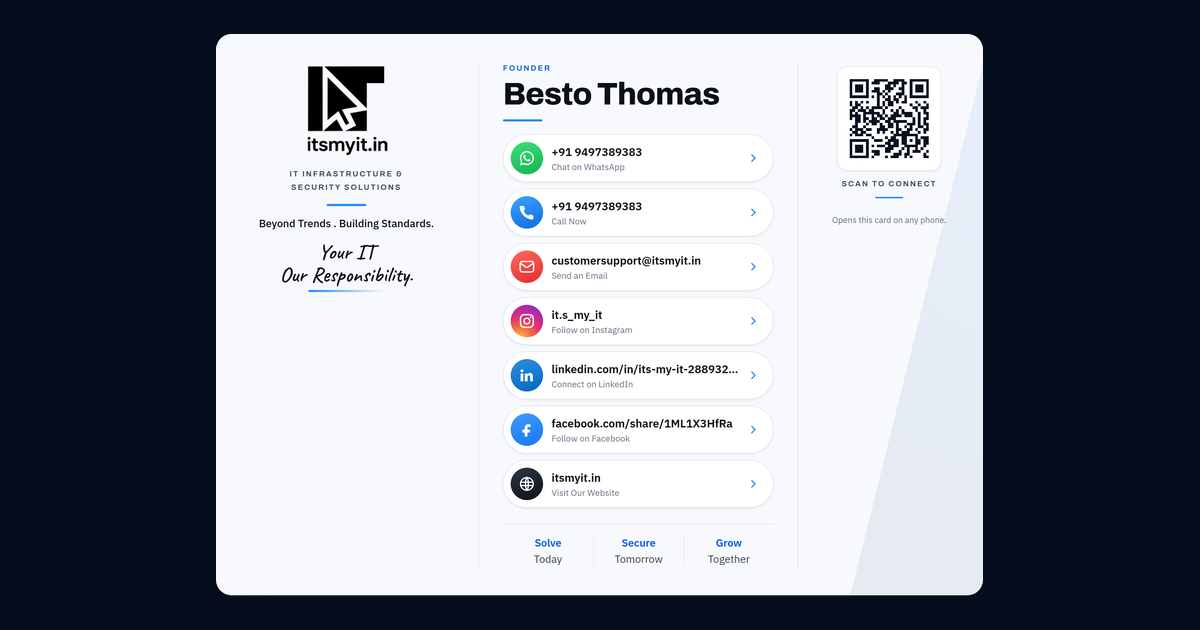
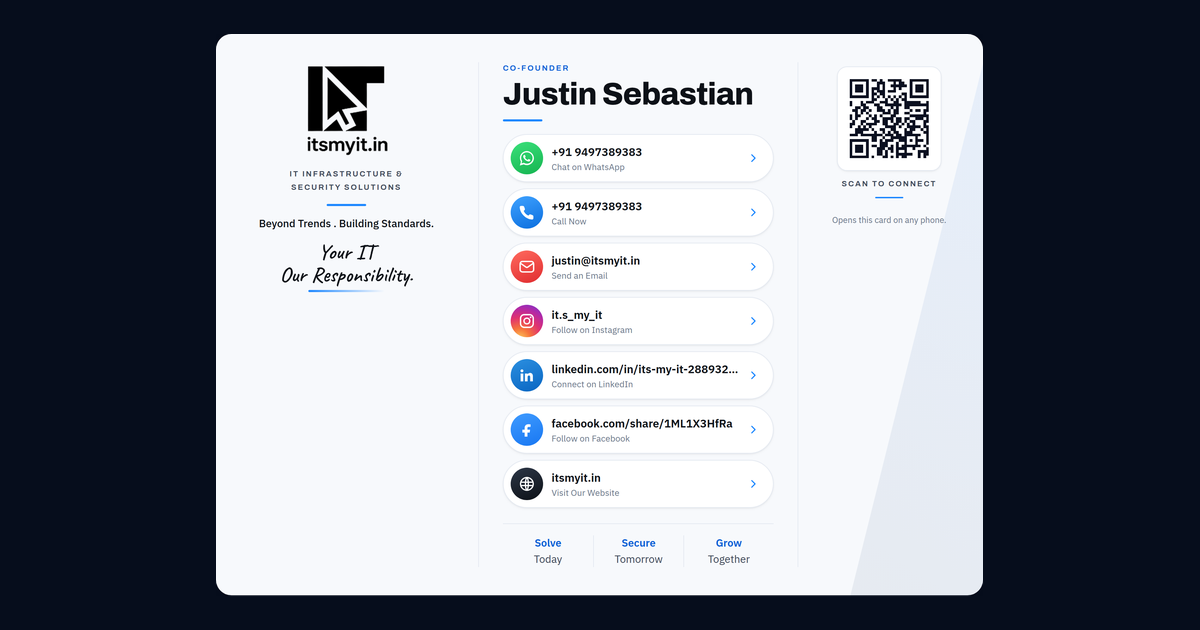
Add files via upload

Changed region(s): [[0.4008, 0.0905, 0.6475, 0.181], [0.7092, 0.1206, 0.7708, 0.2714], [0.4625, 0.3921, 0.5858, 0.4222]]

diff --git a/index.html b/index.html
@@ -3,15 +3,15 @@
 <head>
 <meta charset="utf-8">
 <meta name="viewport" content="width=device-width, initial-scale=1, viewport-fit=cover">
-<meta name="description" content="Besto Thomas, Founder of itsmyit.in — IT infrastructure &amp; security solutions. Call, WhatsApp, email or save the contact in one tap.">
+<meta name="description" content="Justin Sebastian, Co-Founder of itsmyit.in — IT infrastructure &amp; security solutions. Call, WhatsApp, email or save the contact in one tap.">
 <meta name="theme-color" content="#060d1c">
-<link rel="icon" type="image/png" href="favicon.png">
-<link rel="apple-touch-icon" href="favicon.png">
+<link rel="icon" type="image/png" href="/favicon.png">
+<link rel="apple-touch-icon" href="/favicon.png">
 <meta property="og:type" content="profile">
-<meta property="og:title" content="Besto Thomas — Founder, itsmyit.in">
+<meta property="og:title" content="Justin Sebastian — Co-Founder, itsmyit.in">
 <meta property="og:description" content="IT Infrastructure &amp; Security Solutions. Tap to call, WhatsApp, email or save the contact.">
-<meta property="og:image" content="https://itsmyit08-ui.github.io/og.png">
-<meta property="og:url" content="https://itsmyit08-ui.github.io">
+<meta property="og:image" content="https://itsmyit08-ui.github.io/justin/og.png">
+<meta property="og:url" content="https://itsmyit08-ui.github.io/justin">
 <meta name="twitter:card" content="summary_large_image">
 <style>
   :root {
@@ -23,7 +23,7 @@
   img { max-width: 100%; }
   [hidden] { display: none !important; }
 </style>
-<title>Besto Thomas · itsmyit.in</title>
+<title>Justin Sebastian · itsmyit.in</title>
 <link rel="preconnect" href="https://fonts.googleapis.com">
 <link rel="preconnect" href="https://fonts.gstatic.com" crossorigin>
 <link rel="stylesheet" href="https://fonts.googleapis.com/css2?family=Archivo:wght@500;600;700;800&family=IBM+Plex+Sans:wght@400;500;600&family=Caveat:wght@600&display=swap">
@@ -539,8 +539,8 @@
 
       <div class="contact">
         <div class="lead">
-          <div class="label">Founder</div>
-          <h1>Besto Thomas</h1>
+          <div class="label">Co-Founder</div>
+          <h1>Justin Sebastian</h1>
           <div class="rule"></div>
         </div>
 
@@ -564,10 +564,10 @@
             <svg class="chev" viewBox="0 0 24 24" aria-hidden="true"><path d="m9 5 7 7-7 7" fill="none" stroke="currentColor" stroke-width="2.4" stroke-linecap="round" stroke-linejoin="round"/></svg>
           </a>
 
-          <a class="row" href="mailto:customersupport@itsmyit.in" target="_blank" rel="noopener" data-copy="customersupport@itsmyit.in" data-copy-label="Address copied — opening your mail app">
+          <a class="row" href="mailto:justin@itsmyit.in" target="_blank" rel="noopener" data-copy="justin@itsmyit.in" data-copy-label="Address copied — opening your mail app">
             <span class="badge b-mail"><svg viewBox="0 0 24 24" aria-hidden="true" ><rect x="2.4" y="4.6" width="19.2" height="14.8" rx="3.2" fill="none" stroke="currentColor" stroke-width="1.9"/><path d="m3.6 7.6 7.3 5.1a2 2 0 0 0 2.2 0l7.3-5.1" fill="none" stroke="currentColor" stroke-width="1.9" stroke-linecap="round"/></svg></span>
             <span class="row-text">
-              <span class="row-main">customersupport@itsmyit.in</span>
+              <span class="row-main">justin@itsmyit.in</span>
               <span class="row-sub">Send an Email</span>
             </span>
             <svg class="chev" viewBox="0 0 24 24" aria-hidden="true"><path d="m9 5 7 7-7 7" fill="none" stroke="currentColor" stroke-width="2.4" stroke-linecap="round" stroke-linejoin="round"/></svg>
@@ -619,7 +619,7 @@
       </div>
 
       <div class="scan">
-        <div class="qr-frame"><svg class="" viewBox="0 0 33 33" xmlns="http://www.w3.org/2000/svg" shape-rendering="crispEdges" role="img" aria-label="QR code"><rect width="33" height="33" fill="#ffffff"/><path d="M2 2h7v1h-7zM11 2h5v1h-5zM18 2h4v1h-4zM24 2h7v1h-7zM2 3h1v1h-1zM8 3h1v1h-1zM10 3h3v1h-3zM16 3h4v1h-4zM21 3h2v1h-2zM24 3h1v1h-1zM30 3h1v1h-1zM2 4h1v1h-1zM4 4h3v1h-3zM8 4h1v1h-1zM15 4h2v1h-2zM18 4h1v1h-1zM21 4h1v1h-1zM24 4h1v1h-1zM26 4h3v1h-3zM30 4h1v1h-1zM2 5h1v1h-1zM4 5h3v1h-3zM8 5h1v1h-1zM11 5h2v1h-2zM15 5h3v1h-3zM20 5h2v1h-2zM24 5h1v1h-1zM26 5h3v1h-3zM30 5h1v1h-1zM2 6h1v1h-1zM4 6h3v1h-3zM8 6h1v1h-1zM10 6h3v1h-3zM14 6h1v1h-1zM16 6h1v1h-1zM21 6h1v1h-1zM24 6h1v1h-1zM26 6h3v1h-3zM30 6h1v1h-1zM2 7h1v1h-1zM8 7h1v1h-1zM12 7h2v1h-2zM15 7h1v1h-1zM19 7h3v1h-3zM24 7h1v1h-1zM30 7h1v1h-1zM2 8h7v1h-7zM10 8h1v1h-1zM12 8h1v1h-1zM14 8h1v1h-1zM16 8h1v1h-1zM18 8h1v1h-1zM20 8h1v1h-1zM22 8h1v1h-1zM24 8h7v1h-7zM12 9h1v1h-1zM15 9h2v1h-2zM18 9h2v1h-2zM22 9h1v1h-1zM2 10h1v1h-1zM4 10h1v1h-1zM6 10h1v1h-1zM8 10h1v1h-1zM12 10h1v1h-1zM14 10h1v1h-1zM16 10h2v1h-2zM19 10h1v1h-1zM21 10h2v1h-2zM26 10h1v1h-1zM29 10h1v1h-1zM2 11h1v1h-1zM4 11h2v1h-2zM12 11h1v1h-1zM14 11h1v1h-1zM16 11h2v1h-2zM24 11h1v1h-1zM27 11h1v1h-1zM30 11h1v1h-1zM3 12h2v1h-2zM6 12h1v1h-1zM8 12h1v1h-1zM10 12h4v1h-4zM15 12h1v1h-1zM20 12h1v1h-1zM25 12h2v1h-2zM28 12h3v1h-3zM2 13h2v1h-2zM5 13h3v1h-3zM9 13h2v1h-2zM14 13h1v1h-1zM17 13h1v1h-1zM19 13h1v1h-1zM21 13h1v1h-1zM26 13h1v1h-1zM29 13h1v1h-1zM2 14h1v1h-1zM4 14h1v1h-1zM7 14h6v1h-6zM14 14h1v1h-1zM18 14h2v1h-2zM21 14h4v1h-4zM27 14h1v1h-1zM29 14h2v1h-2zM2 15h4v1h-4zM7 15h1v1h-1zM10 15h1v1h-1zM12 15h2v1h-2zM15 15h1v1h-1zM17 15h4v1h-4zM22 15h3v1h-3zM27 15h1v1h-1zM30 15h1v1h-1zM2 16h1v1h-1zM4 16h2v1h-2zM7 16h2v1h-2zM10 16h2v1h-2zM13 16h2v1h-2zM16 16h3v1h-3zM25 16h1v1h-1zM27 16h1v1h-1zM29 16h2v1h-2zM4 17h2v1h-2zM7 17h1v1h-1zM9 17h4v1h-4zM15 17h2v1h-2zM18 17h5v1h-5zM25 17h1v1h-1zM27 17h1v1h-1zM29 17h1v1h-1zM4 18h1v1h-1zM8 18h1v1h-1zM10 18h2v1h-2zM13 18h1v1h-1zM16 18h2v1h-2zM19 18h1v1h-1zM23 18h3v1h-3zM27 18h1v1h-1zM29 18h2v1h-2zM3 19h2v1h-2zM7 19h1v1h-1zM13 19h2v1h-2zM16 19h2v1h-2zM19 19h1v1h-1zM22 19h1v1h-1zM24 19h1v1h-1zM27 19h2v1h-2zM30 19h1v1h-1zM2 20h1v1h-1zM4 20h3v1h-3zM8 20h2v1h-2zM12 20h4v1h-4zM19 20h2v1h-2zM23 20h2v1h-2zM26 20h1v1h-1zM29 20h2v1h-2zM3 21h2v1h-2zM6 21h2v1h-2zM12 21h1v1h-1zM14 21h1v1h-1zM17 21h1v1h-1zM19 21h1v1h-1zM21 21h3v1h-3zM27 21h1v1h-1zM29 21h1v1h-1zM2 22h1v1h-1zM4 22h3v1h-3zM8 22h2v1h-2zM18 22h9v1h-9zM10 23h1v1h-1zM15 23h1v1h-1zM17 23h2v1h-2zM21 23h2v1h-2zM26 23h1v1h-1zM28 23h3v1h-3zM2 24h7v1h-7zM11 24h3v1h-3zM16 24h4v1h-4zM21 24h2v1h-2zM24 24h1v1h-1zM26 24h2v1h-2zM29 24h2v1h-2zM2 25h1v1h-1zM8 25h1v1h-1zM15 25h2v1h-2zM18 25h2v1h-2zM21 25h2v1h-2zM26 25h2v1h-2zM29 25h2v1h-2zM2 26h1v1h-1zM4 26h3v1h-3zM8 26h1v1h-1zM10 26h1v1h-1zM12 26h3v1h-3zM16 26h4v1h-4zM22 26h5v1h-5zM29 26h1v1h-1zM2 27h1v1h-1zM4 27h3v1h-3zM8 27h1v1h-1zM15 27h3v1h-3zM21 27h1v1h-1zM23 27h1v1h-1zM26 27h1v1h-1zM28 27h1v1h-1zM2 28h1v1h-1zM4 28h3v1h-3zM8 28h1v1h-1zM10 28h3v1h-3zM15 28h2v1h-2zM20 28h1v1h-1zM23 28h1v1h-1zM25 28h3v1h-3zM30 28h1v1h-1zM2 29h1v1h-1zM8 29h1v1h-1zM11 29h2v1h-2zM18 29h3v1h-3zM22 29h2v1h-2zM29 29h1v1h-1zM2 30h7v1h-7zM10 30h1v1h-1zM15 30h1v1h-1zM17 30h3v1h-3zM22 30h1v1h-1zM24 30h1v1h-1zM29 30h2v1h-2z" fill="#0B1020"/></svg></div>
+        <div class="qr-frame"><svg class="" viewBox="0 0 33 33" xmlns="http://www.w3.org/2000/svg" shape-rendering="crispEdges" role="img" aria-label="QR code"><rect width="33" height="33" fill="#ffffff"/><path d="M2 2h7v1h-7zM10 2h2v1h-2zM13 2h1v1h-1zM16 2h5v1h-5zM24 2h7v1h-7zM2 3h1v1h-1zM8 3h1v1h-1zM12 3h3v1h-3zM18 3h1v1h-1zM20 3h2v1h-2zM24 3h1v1h-1zM30 3h1v1h-1zM2 4h1v1h-1zM4 4h3v1h-3zM8 4h1v1h-1zM12 4h1v1h-1zM14 4h1v1h-1zM17 4h6v1h-6zM24 4h1v1h-1zM26 4h3v1h-3zM30 4h1v1h-1zM2 5h1v1h-1zM4 5h3v1h-3zM8 5h1v1h-1zM10 5h3v1h-3zM14 5h1v1h-1zM18 5h1v1h-1zM20 5h1v1h-1zM24 5h1v1h-1zM26 5h3v1h-3zM30 5h1v1h-1zM2 6h1v1h-1zM4 6h3v1h-3zM8 6h1v1h-1zM10 6h1v1h-1zM12 6h3v1h-3zM16 6h3v1h-3zM24 6h1v1h-1zM26 6h3v1h-3zM30 6h1v1h-1zM2 7h1v1h-1zM8 7h1v1h-1zM10 7h2v1h-2zM13 7h2v1h-2zM21 7h2v1h-2zM24 7h1v1h-1zM30 7h1v1h-1zM2 8h7v1h-7zM10 8h1v1h-1zM12 8h1v1h-1zM14 8h1v1h-1zM16 8h1v1h-1zM18 8h1v1h-1zM20 8h1v1h-1zM22 8h1v1h-1zM24 8h7v1h-7zM10 9h2v1h-2zM15 9h1v1h-1zM17 9h1v1h-1zM19 9h1v1h-1zM21 9h2v1h-2zM2 10h1v1h-1zM6 10h1v1h-1zM8 10h3v1h-3zM13 10h3v1h-3zM18 10h2v1h-2zM22 10h6v1h-6zM30 10h1v1h-1zM2 11h1v1h-1zM6 11h2v1h-2zM11 11h2v1h-2zM15 11h6v1h-6zM22 11h9v1h-9zM4 12h2v1h-2zM7 12h2v1h-2zM12 12h2v1h-2zM17 12h1v1h-1zM19 12h1v1h-1zM22 12h2v1h-2zM30 12h1v1h-1zM3 13h2v1h-2zM6 13h2v1h-2zM9 13h1v1h-1zM12 13h3v1h-3zM16 13h1v1h-1zM18 13h2v1h-2zM24 13h1v1h-1zM26 13h2v1h-2zM29 13h2v1h-2zM4 14h1v1h-1zM6 14h1v1h-1zM8 14h1v1h-1zM14 14h3v1h-3zM18 14h2v1h-2zM22 14h2v1h-2zM29 14h1v1h-1zM2 15h1v1h-1zM4 15h2v1h-2zM9 15h1v1h-1zM11 15h1v1h-1zM13 15h1v1h-1zM17 15h2v1h-2zM24 15h7v1h-7zM2 16h1v1h-1zM4 16h1v1h-1zM8 16h1v1h-1zM10 16h2v1h-2zM14 16h4v1h-4zM19 16h2v1h-2zM22 16h2v1h-2zM26 16h3v1h-3zM30 16h1v1h-1zM3 17h1v1h-1zM6 17h2v1h-2zM11 17h2v1h-2zM14 17h2v1h-2zM17 17h1v1h-1zM19 17h2v1h-2zM22 17h1v1h-1zM24 17h2v1h-2zM29 17h2v1h-2zM2 18h2v1h-2zM6 18h1v1h-1zM8 18h4v1h-4zM14 18h2v1h-2zM18 18h2v1h-2zM21 18h1v1h-1zM23 18h1v1h-1zM25 18h1v1h-1zM29 18h1v1h-1zM2 19h1v1h-1zM5 19h1v1h-1zM7 19h1v1h-1zM9 19h1v1h-1zM15 19h4v1h-4zM20 19h1v1h-1zM23 19h5v1h-5zM29 19h2v1h-2zM4 20h5v1h-5zM10 20h1v1h-1zM13 20h2v1h-2zM17 20h2v1h-2zM22 20h1v1h-1zM24 20h2v1h-2zM28 20h1v1h-1zM30 20h1v1h-1zM4 21h3v1h-3zM11 21h1v1h-1zM14 21h1v1h-1zM16 21h1v1h-1zM18 21h2v1h-2zM22 21h3v1h-3zM29 21h2v1h-2zM2 22h3v1h-3zM6 22h8v1h-8zM15 22h3v1h-3zM19 22h2v1h-2zM22 22h6v1h-6zM30 22h1v1h-1zM10 23h2v1h-2zM14 23h1v1h-1zM17 23h6v1h-6zM26 23h1v1h-1zM30 23h1v1h-1zM2 24h7v1h-7zM10 24h2v1h-2zM13 24h1v1h-1zM15 24h3v1h-3zM20 24h3v1h-3zM24 24h1v1h-1zM26 24h3v1h-3zM30 24h1v1h-1zM2 25h1v1h-1zM8 25h1v1h-1zM13 25h3v1h-3zM19 25h1v1h-1zM22 25h1v1h-1zM26 25h1v1h-1zM30 25h1v1h-1zM2 26h1v1h-1zM4 26h3v1h-3zM8 26h1v1h-1zM10 26h2v1h-2zM13 26h3v1h-3zM17 26h1v1h-1zM19 26h1v1h-1zM21 26h7v1h-7zM29 26h1v1h-1zM2 27h1v1h-1zM4 27h3v1h-3zM8 27h1v1h-1zM12 27h3v1h-3zM16 27h2v1h-2zM19 27h4v1h-4zM25 27h1v1h-1zM30 27h1v1h-1zM2 28h1v1h-1zM4 28h3v1h-3zM8 28h1v1h-1zM12 28h2v1h-2zM15 28h1v1h-1zM17 28h1v1h-1zM19 28h1v1h-1zM22 28h1v1h-1zM27 28h4v1h-4zM2 29h1v1h-1zM8 29h1v1h-1zM12 29h2v1h-2zM15 29h1v1h-1zM19 29h6v1h-6zM27 29h1v1h-1zM29 29h2v1h-2zM2 30h7v1h-7zM10 30h1v1h-1zM14 30h2v1h-2zM17 30h1v1h-1zM19 30h1v1h-1zM21 30h2v1h-2zM27 30h1v1h-1zM29 30h1v1h-1z" fill="#0B1020"/></svg></div>
         <div class="label">Scan to Connect</div>
         <div class="rule"></div>
         <p class="scan-note">Opens this card on any phone.</p>
@@ -634,7 +634,7 @@
       <div class="label">Our Services</div>
       <h2>Complete IT Solutions<br>for a <span>Smarter Tomorrow</span></h2>
       <p class="services-copy">From <b>setup</b> to support, we help businesses build, <b>secure and grow</b> with the right technology.</p>
-      <a class="cta" href="https://wa.me/919497389383?text=Hi%20Besto%2C%20I%27d%20like%20to%20work%20with%20itsmyit.in" target="_blank" rel="noopener">
+      <a class="cta" href="https://wa.me/919497389383?text=Hi%20Justin%2C%20I%27d%20like%20to%20work%20with%20itsmyit.in" target="_blank" rel="noopener">
         <span class="label">Let's Work Together</span>
         <span class="arrow"><svg viewBox="0 0 24 24" aria-hidden="true"><path d="M4 12h15m-6-6 6 6-6 6" fill="none" stroke="currentColor" stroke-width="2.6" stroke-linecap="round" stroke-linejoin="round"/></svg></span>
       </a>
@@ -656,7 +656,7 @@
     <div class="actions">
       <a class="act act-wa" href="https://wa.me/919497389383" target="_blank" rel="noopener"><svg viewBox="0 0 24 24" aria-hidden="true" ><path fill="currentColor" d="M12.04 2C6.6 2 2.17 6.43 2.17 11.87c0 1.9.53 3.68 1.45 5.2L2 22.5l5.57-1.58a9.83 9.83 0 0 0 4.47 1.1h.01c5.44 0 9.87-4.43 9.87-9.87 0-2.64-1.03-5.12-2.9-6.98A9.8 9.8 0 0 0 12.04 2Zm0 1.85c2.14 0 4.15.84 5.67 2.35a7.96 7.96 0 0 1 2.35 5.67c0 4.42-3.6 8.02-8.02 8.02a8.2 8.2 0 0 1-4.18-1.14l-.3-.18-3.1.81.83-3.03-.2-.31a8.15 8.15 0 0 1-1.25-4.37c0-4.42 3.6-8.02 8.2-7.82Zm-3.7 3.62c-.17 0-.44.06-.67.31-.23.25-.87.85-.87 2.07 0 1.22.89 2.4 1.01 2.56.12.17 1.73 2.75 4.26 3.75 2.1.83 2.53.66 2.98.62.46-.04 1.46-.6 1.67-1.17.2-.58.2-1.07.14-1.18-.06-.1-.23-.16-.48-.29-.25-.12-1.46-.72-1.69-.8-.22-.09-.39-.13-.55.12-.17.25-.64.8-.78.97-.15.16-.29.18-.54.06-.25-.13-1.05-.39-2-1.23a7.5 7.5 0 0 1-1.38-1.72c-.15-.25-.02-.38.11-.5.11-.12.25-.3.37-.44.13-.15.17-.25.25-.42.09-.16.04-.31-.02-.44-.06-.12-.55-1.35-.76-1.84-.2-.48-.4-.42-.55-.42h-.5Z"/></svg><span>Chat on WhatsApp</span></a>
       <a class="act act-tel" href="tel:+919497389383" target="_blank" rel="noopener" data-copy="+91 9497389383" data-copy-label="Number copied — opening your dialler"><svg viewBox="0 0 24 24" aria-hidden="true" ><path fill="currentColor" d="M6.3 2.7A1.9 1.9 0 0 1 8.1 4l1 2.7a1.9 1.9 0 0 1-.44 2.02L7.5 9.83a12.9 12.9 0 0 0 6.67 6.67l1.11-1.16a1.9 1.9 0 0 1 2.02-.44l2.7 1c.74.28 1.23.99 1.23 1.78v2.6c0 1.1-.93 1.99-2.03 1.9C10.39 21.6 2.4 13.6 1.82 4.8A1.9 1.9 0 0 1 3.72 2.7h2.58Z"/></svg><span>Call Now</span></a>
-      <a class="act act-mail" href="mailto:customersupport@itsmyit.in" target="_blank" rel="noopener" data-copy="customersupport@itsmyit.in" data-copy-label="Address copied — opening your mail app"><svg viewBox="0 0 24 24" aria-hidden="true" ><rect x="2.4" y="4.6" width="19.2" height="14.8" rx="3.2" fill="none" stroke="currentColor" stroke-width="1.9"/><path d="m3.6 7.6 7.3 5.1a2 2 0 0 0 2.2 0l7.3-5.1" fill="none" stroke="currentColor" stroke-width="1.9" stroke-linecap="round"/></svg><span>Send an Email</span></a>
+      <a class="act act-mail" href="mailto:justin@itsmyit.in" target="_blank" rel="noopener" data-copy="justin@itsmyit.in" data-copy-label="Address copied — opening your mail app"><svg viewBox="0 0 24 24" aria-hidden="true" ><rect x="2.4" y="4.6" width="19.2" height="14.8" rx="3.2" fill="none" stroke="currentColor" stroke-width="1.9"/><path d="m3.6 7.6 7.3 5.1a2 2 0 0 0 2.2 0l7.3-5.1" fill="none" stroke="currentColor" stroke-width="1.9" stroke-linecap="round"/></svg><span>Send an Email</span></a>
       <button class="act act-save" id="save-contact" type="button">
         <svg viewBox="0 0 24 24" aria-hidden="true" ><circle cx="10" cy="8.3" r="3.6" fill="none" stroke="currentColor" stroke-width="1.8"/><path d="M3.6 20c.5-3.4 3.2-5.6 6.4-5.6 1.2 0 2.3.3 3.2.8M18 13.6v5.4M15.3 16.3h5.4" fill="none" stroke="currentColor" stroke-width="1.8" stroke-linecap="round"/></svg>
         <span class="act-copy"><span>Save Contact</span><small>Add to your phone</small></span>
@@ -683,13 +683,13 @@
 <!-- save-contact sheet -->
 <div class="sheet-bg" id="sheet-bg" hidden>
   <div class="sheet" role="dialog" aria-modal="true" aria-labelledby="sheet-title">
-    <h3 id="sheet-title">Save Besto Thomas</h3>
-    <div class="qr-frame"><svg class="" viewBox="0 0 61 61" xmlns="http://www.w3.org/2000/svg" shape-rendering="crispEdges" role="img" aria-label="QR code"><rect width="61" height="61" fill="#ffffff"/><path d="M2 2h7v1h-7zM13 2h2v1h-2zM16 2h1v1h-1zM18 2h2v1h-2zM21 2h1v1h-1zM24 2h1v1h-1zM26 2h3v1h-3zM31 2h3v1h-3zM35 2h3v1h-3zM40 2h1v1h-1zM42 2h4v1h-4zM48 2h2v1h-2zM52 2h7v1h-7zM2 3h1v1h-1zM8 3h1v1h-1zM12 3h3v1h-3zM16 3h1v1h-1zM19 3h2v1h-2zM22 3h2v1h-2zM26 3h2v1h-2zM29 3h1v1h-1zM31 3h7v1h-7zM40 3h1v1h-1zM42 3h6v1h-6zM49 3h1v1h-1zM52 3h1v1h-1zM58 3h1v1h-1zM2 4h1v1h-1zM4 4h3v1h-3zM8 4h1v1h-1zM11 4h2v1h-2zM14 4h1v1h-1zM16 4h1v1h-1zM18 4h2v1h-2zM22 4h5v1h-5zM30 4h1v1h-1zM35 4h2v1h-2zM39 4h2v1h-2zM43 4h2v1h-2zM48 4h2v1h-2zM52 4h1v1h-1zM54 4h3v1h-3zM58 4h1v1h-1zM2 5h1v1h-1zM4 5h3v1h-3zM8 5h1v1h-1zM14 5h4v1h-4zM22 5h1v1h-1zM26 5h1v1h-1zM28 5h1v1h-1zM31 5h2v1h-2zM39 5h2v1h-2zM43 5h1v1h-1zM49 5h1v1h-1zM52 5h1v1h-1zM54 5h3v1h-3zM58 5h1v1h-1zM2 6h1v1h-1zM4 6h3v1h-3zM8 6h1v1h-1zM12 6h3v1h-3zM16 6h2v1h-2zM19 6h1v1h-1zM21 6h2v1h-2zM24 6h1v1h-1zM26 6h7v1h-7zM35 6h1v1h-1zM38 6h3v1h-3zM43 6h3v1h-3zM47 6h1v1h-1zM49 6h1v1h-1zM52 6h1v1h-1zM54 6h3v1h-3zM58 6h1v1h-1zM2 7h1v1h-1zM8 7h1v1h-1zM10 7h3v1h-3zM14 7h1v1h-1zM17 7h1v1h-1zM20 7h3v1h-3zM24 7h2v1h-2zM27 7h2v1h-2zM32 7h3v1h-3zM36 7h2v1h-2zM46 7h1v1h-1zM48 7h1v1h-1zM52 7h1v1h-1zM58 7h1v1h-1zM2 8h7v1h-7zM10 8h1v1h-1zM12 8h1v1h-1zM14 8h1v1h-1zM16 8h1v1h-1zM18 8h1v1h-1zM20 8h1v1h-1zM22 8h1v1h-1zM24 8h1v1h-1zM26 8h1v1h-1zM28 8h1v1h-1zM30 8h1v1h-1zM32 8h1v1h-1zM34 8h1v1h-1zM36 8h1v1h-1zM38 8h1v1h-1zM40 8h1v1h-1zM42 8h1v1h-1zM44 8h1v1h-1zM46 8h1v1h-1zM48 8h1v1h-1zM50 8h1v1h-1zM52 8h7v1h-7zM12 9h1v1h-1zM15 9h1v1h-1zM19 9h2v1h-2zM23 9h1v1h-1zM27 9h2v1h-2zM32 9h1v1h-1zM36 9h2v1h-2zM39 9h11v1h-11zM2 10h1v1h-1zM5 10h1v1h-1zM7 10h2v1h-2zM10 10h3v1h-3zM14 10h1v1h-1zM16 10h1v1h-1zM19 10h1v1h-1zM22 10h2v1h-2zM27 10h7v1h-7zM35 10h8v1h-8zM45 10h1v1h-1zM47 10h5v1h-5zM53 10h1v1h-1zM3 11h1v1h-1zM5 11h1v1h-1zM7 11h1v1h-1zM9 11h1v1h-1zM11 11h2v1h-2zM17 11h2v1h-2zM20 11h1v1h-1zM23 11h1v1h-1zM25 11h1v1h-1zM28 11h1v1h-1zM30 11h1v1h-1zM33 11h1v1h-1zM41 11h1v1h-1zM43 11h1v1h-1zM51 11h1v1h-1zM53 11h1v1h-1zM56 11h2v1h-2zM3 12h3v1h-3zM8 12h1v1h-1zM10 12h1v1h-1zM12 12h1v1h-1zM15 12h1v1h-1zM18 12h3v1h-3zM22 12h1v1h-1zM25 12h1v1h-1zM28 12h1v1h-1zM30 12h1v1h-1zM34 12h1v1h-1zM37 12h1v1h-1zM40 12h4v1h-4zM45 12h1v1h-1zM47 12h1v1h-1zM50 12h1v1h-1zM53 12h3v1h-3zM57 12h2v1h-2zM3 13h2v1h-2zM7 13h1v1h-1zM10 13h2v1h-2zM14 13h1v1h-1zM18 13h1v1h-1zM21 13h1v1h-1zM25 13h2v1h-2zM28 13h2v1h-2zM32 13h1v1h-1zM35 13h2v1h-2zM41 13h1v1h-1zM43 13h1v1h-1zM45 13h2v1h-2zM51 13h1v1h-1zM54 13h2v1h-2zM3 14h2v1h-2zM6 14h1v1h-1zM8 14h1v1h-1zM11 14h2v1h-2zM14 14h2v1h-2zM18 14h5v1h-5zM24 14h4v1h-4zM30 14h3v1h-3zM34 14h1v1h-1zM37 14h2v1h-2zM40 14h3v1h-3zM44 14h3v1h-3zM48 14h1v1h-1zM50 14h1v1h-1zM53 14h3v1h-3zM3 15h1v1h-1zM7 15h1v1h-1zM9 15h2v1h-2zM12 15h1v1h-1zM14 15h2v1h-2zM19 15h1v1h-1zM21 15h2v1h-2zM24 15h2v1h-2zM28 15h1v1h-1zM30 15h2v1h-2zM33 15h1v1h-1zM36 15h3v1h-3zM41 15h1v1h-1zM46 15h1v1h-1zM48 15h1v1h-1zM51 15h1v1h-1zM54 15h1v1h-1zM2 16h1v1h-1zM4 16h2v1h-2zM7 16h2v1h-2zM11 16h2v1h-2zM15 16h1v1h-1zM17 16h2v1h-2zM20 16h1v1h-1zM24 16h1v1h-1zM26 16h1v1h-1zM28 16h2v1h-2zM36 16h2v1h-2zM40 16h1v1h-1zM49 16h2v1h-2zM52 16h3v1h-3zM56 16h2v1h-2zM2 17h1v1h-1zM6 17h1v1h-1zM9 17h1v1h-1zM11 17h1v1h-1zM15 17h1v1h-1zM19 17h1v1h-1zM21 17h2v1h-2zM24 17h2v1h-2zM27 17h1v1h-1zM29 17h3v1h-3zM33 17h3v1h-3zM38 17h1v1h-1zM40 17h2v1h-2zM52 17h1v1h-1zM54 17h1v1h-1zM58 17h1v1h-1zM2 18h2v1h-2zM8 18h3v1h-3zM12 18h2v1h-2zM15 18h2v1h-2zM22 18h1v1h-1zM24 18h1v1h-1zM27 18h3v1h-3zM32 18h7v1h-7zM41 18h1v1h-1zM43 18h2v1h-2zM46 18h2v1h-2zM49 18h1v1h-1zM51 18h1v1h-1zM56 18h1v1h-1zM5 19h1v1h-1zM7 19h1v1h-1zM13 19h2v1h-2zM16 19h1v1h-1zM18 19h1v1h-1zM23 19h3v1h-3zM27 19h2v1h-2zM30 19h2v1h-2zM33 19h2v1h-2zM37 19h2v1h-2zM40 19h1v1h-1zM42 19h2v1h-2zM46 19h1v1h-1zM49 19h1v1h-1zM51 19h4v1h-4zM56 19h3v1h-3zM3 20h1v1h-1zM7 20h2v1h-2zM11 20h1v1h-1zM13 20h2v1h-2zM16 20h2v1h-2zM20 20h2v1h-2zM23 20h2v1h-2zM30 20h1v1h-1zM33 20h2v1h-2zM38 20h1v1h-1zM41 20h1v1h-1zM43 20h2v1h-2zM48 20h2v1h-2zM51 20h1v1h-1zM53 20h1v1h-1zM58 20h1v1h-1zM2 21h1v1h-1zM4 21h1v1h-1zM6 21h1v1h-1zM12 21h1v1h-1zM15 21h4v1h-4zM22 21h1v1h-1zM24 21h1v1h-1zM26 21h2v1h-2zM31 21h1v1h-1zM34 21h1v1h-1zM36 21h2v1h-2zM39 21h2v1h-2zM44 21h1v1h-1zM46 21h1v1h-1zM48 21h2v1h-2zM52 21h3v1h-3zM57 21h1v1h-1zM3 22h7v1h-7zM14 22h1v1h-1zM16 22h1v1h-1zM19 22h2v1h-2zM22 22h1v1h-1zM24 22h1v1h-1zM28 22h1v1h-1zM30 22h1v1h-1zM32 22h2v1h-2zM35 22h2v1h-2zM38 22h1v1h-1zM40 22h3v1h-3zM44 22h2v1h-2zM47 22h4v1h-4zM52 22h3v1h-3zM56 22h3v1h-3zM3 23h1v1h-1zM5 23h2v1h-2zM9 23h4v1h-4zM14 23h3v1h-3zM18 23h1v1h-1zM20 23h1v1h-1zM23 23h3v1h-3zM30 23h1v1h-1zM33 23h1v1h-1zM35 23h1v1h-1zM45 23h1v1h-1zM47 23h1v1h-1zM55 23h1v1h-1zM57 23h1v1h-1zM2 24h2v1h-2zM5 24h5v1h-5zM11 24h2v1h-2zM16 24h2v1h-2zM26 24h4v1h-4zM31 24h3v1h-3zM35 24h2v1h-2zM39 24h1v1h-1zM42 24h1v1h-1zM45 24h1v1h-1zM47 24h3v1h-3zM51 24h2v1h-2zM54 24h1v1h-1zM58 24h1v1h-1zM2 25h3v1h-3zM11 25h1v1h-1zM13 25h5v1h-5zM20 25h4v1h-4zM26 25h1v1h-1zM28 25h2v1h-2zM31 25h5v1h-5zM37 25h3v1h-3zM42 25h2v1h-2zM46 25h2v1h-2zM51 25h2v1h-2zM54 25h2v1h-2zM57 25h1v1h-1zM3 26h1v1h-1zM7 26h2v1h-2zM11 26h2v1h-2zM17 26h1v1h-1zM22 26h1v1h-1zM26 26h1v1h-1zM28 26h1v1h-1zM30 26h5v1h-5zM36 26h3v1h-3zM41 26h7v1h-7zM49 26h1v1h-1zM54 26h1v1h-1zM56 26h1v1h-1zM2 27h1v1h-1zM4 27h1v1h-1zM6 27h2v1h-2zM9 27h5v1h-5zM15 27h3v1h-3zM21 27h1v1h-1zM28 27h1v1h-1zM30 27h1v1h-1zM34 27h1v1h-1zM36 27h1v1h-1zM43 27h1v1h-1zM46 27h3v1h-3zM53 27h2v1h-2zM56 27h1v1h-1zM58 27h1v1h-1zM2 28h3v1h-3zM6 28h5v1h-5zM15 28h1v1h-1zM17 28h1v1h-1zM21 28h2v1h-2zM24 28h3v1h-3zM28 28h6v1h-6zM35 28h1v1h-1zM37 28h1v1h-1zM39 28h2v1h-2zM42 28h1v1h-1zM46 28h2v1h-2zM49 28h6v1h-6zM56 28h2v1h-2zM2 29h1v1h-1zM4 29h1v1h-1zM6 29h1v1h-1zM10 29h3v1h-3zM15 29h3v1h-3zM19 29h1v1h-1zM22 29h1v1h-1zM24 29h1v1h-1zM26 29h3v1h-3zM32 29h1v1h-1zM34 29h1v1h-1zM36 29h2v1h-2zM39 29h1v1h-1zM41 29h1v1h-1zM43 29h5v1h-5zM49 29h2v1h-2zM54 29h2v1h-2zM57 29h2v1h-2zM2 30h1v1h-1zM4 30h1v1h-1zM6 30h1v1h-1zM8 30h1v1h-1zM10 30h2v1h-2zM13 30h4v1h-4zM21 30h1v1h-1zM27 30h2v1h-2zM30 30h1v1h-1zM32 30h1v1h-1zM34 30h1v1h-1zM36 30h1v1h-1zM38 30h2v1h-2zM41 30h1v1h-1zM46 30h1v1h-1zM48 30h3v1h-3zM52 30h1v1h-1zM54 30h1v1h-1zM56 30h1v1h-1zM58 30h1v1h-1zM5 31h2v1h-2zM10 31h1v1h-1zM13 31h1v1h-1zM16 31h1v1h-1zM19 31h1v1h-1zM21 31h1v1h-1zM25 31h1v1h-1zM27 31h2v1h-2zM32 31h2v1h-2zM40 31h1v1h-1zM43 31h1v1h-1zM50 31h1v1h-1zM54 31h2v1h-2zM3 32h8v1h-8zM12 32h1v1h-1zM14 32h3v1h-3zM19 32h2v1h-2zM22 32h3v1h-3zM26 32h7v1h-7zM34 32h1v1h-1zM36 32h1v1h-1zM38 32h1v1h-1zM40 32h3v1h-3zM45 32h1v1h-1zM48 32h9v1h-9zM58 32h1v1h-1zM2 33h2v1h-2zM6 33h2v1h-2zM9 33h2v1h-2zM13 33h4v1h-4zM21 33h4v1h-4zM27 33h2v1h-2zM31 33h4v1h-4zM37 33h1v1h-1zM39 33h5v1h-5zM45 33h1v1h-1zM49 33h2v1h-2zM57 33h2v1h-2zM3 34h7v1h-7zM12 34h2v1h-2zM15 34h2v1h-2zM18 34h1v1h-1zM24 34h3v1h-3zM29 34h1v1h-1zM31 34h1v1h-1zM37 34h2v1h-2zM42 34h1v1h-1zM45 34h1v1h-1zM47 34h1v1h-1zM49 34h1v1h-1zM52 34h1v1h-1zM54 34h2v1h-2zM58 34h1v1h-1zM2 35h1v1h-1zM9 35h5v1h-5zM16 35h2v1h-2zM26 35h4v1h-4zM35 35h1v1h-1zM46 35h2v1h-2zM49 35h1v1h-1zM52 35h1v1h-1zM56 35h2v1h-2zM3 36h1v1h-1zM7 36h3v1h-3zM11 36h2v1h-2zM16 36h1v1h-1zM19 36h1v1h-1zM22 36h2v1h-2zM29 36h5v1h-5zM35 36h3v1h-3zM40 36h3v1h-3zM48 36h2v1h-2zM52 36h2v1h-2zM55 36h2v1h-2zM3 37h1v1h-1zM5 37h2v1h-2zM9 37h1v1h-1zM12 37h1v1h-1zM14 37h2v1h-2zM17 37h1v1h-1zM20 37h2v1h-2zM24 37h3v1h-3zM28 37h2v1h-2zM32 37h1v1h-1zM36 37h3v1h-3zM41 37h1v1h-1zM46 37h1v1h-1zM48 37h1v1h-1zM50 37h1v1h-1zM52 37h4v1h-4zM57 37h2v1h-2zM2 38h2v1h-2zM8 38h1v1h-1zM10 38h1v1h-1zM12 38h2v1h-2zM15 38h2v1h-2zM22 38h1v1h-1zM24 38h1v1h-1zM27 38h1v1h-1zM30 38h13v1h-13zM45 38h2v1h-2zM48 38h1v1h-1zM50 38h1v1h-1zM56 38h1v1h-1zM58 38h1v1h-1zM3 39h3v1h-3zM7 39h1v1h-1zM10 39h1v1h-1zM12 39h2v1h-2zM15 39h1v1h-1zM19 39h2v1h-2zM23 39h3v1h-3zM27 39h1v1h-1zM29 39h3v1h-3zM33 39h1v1h-1zM36 39h4v1h-4zM42 39h1v1h-1zM47 39h2v1h-2zM54 39h1v1h-1zM3 40h3v1h-3zM7 40h3v1h-3zM11 40h2v1h-2zM15 40h1v1h-1zM17 40h1v1h-1zM19 40h1v1h-1zM23 40h1v1h-1zM25 40h2v1h-2zM28 40h1v1h-1zM30 40h3v1h-3zM34 40h2v1h-2zM37 40h2v1h-2zM40 40h1v1h-1zM44 40h2v1h-2zM47 40h1v1h-1zM51 40h1v1h-1zM54 40h1v1h-1zM56 40h1v1h-1zM2 41h1v1h-1zM4 41h3v1h-3zM9 41h2v1h-2zM12 41h3v1h-3zM16 41h1v1h-1zM18 41h3v1h-3zM24 41h1v1h-1zM27 41h1v1h-1zM32 41h6v1h-6zM39 41h5v1h-5zM45 41h2v1h-2zM48 41h1v1h-1zM50 41h1v1h-1zM52 41h1v1h-1zM57 41h2v1h-2zM2 42h1v1h-1zM8 42h1v1h-1zM11 42h4v1h-4zM17 42h1v1h-1zM19 42h2v1h-2zM22 42h2v1h-2zM25 42h1v1h-1zM27 42h1v1h-1zM29 42h2v1h-2zM34 42h1v1h-1zM36 42h3v1h-3zM40 42h2v1h-2zM43 42h2v1h-2zM46 42h2v1h-2zM51 42h1v1h-1zM55 42h2v1h-2zM2 43h1v1h-1zM5 43h3v1h-3zM9 43h2v1h-2zM14 43h1v1h-1zM16 43h1v1h-1zM18 43h2v1h-2zM21 43h1v1h-1zM23 43h1v1h-1zM27 43h1v1h-1zM31 43h1v1h-1zM33 43h3v1h-3zM37 43h2v1h-2zM40 43h1v1h-1zM43 43h1v1h-1zM45 43h2v1h-2zM50 43h2v1h-2zM55 43h1v1h-1zM57 43h2v1h-2zM8 44h2v1h-2zM11 44h1v1h-1zM14 44h5v1h-5zM20 44h1v1h-1zM22 44h4v1h-4zM27 44h1v1h-1zM30 44h5v1h-5zM37 44h1v1h-1zM43 44h1v1h-1zM45 44h4v1h-4zM50 44h3v1h-3zM55 44h2v1h-2zM58 44h1v1h-1zM4 45h1v1h-1zM9 45h1v1h-1zM14 45h1v1h-1zM16 45h1v1h-1zM20 45h2v1h-2zM23 45h1v1h-1zM25 45h1v1h-1zM27 45h2v1h-2zM30 45h1v1h-1zM32 45h2v1h-2zM35 45h4v1h-4zM44 45h1v1h-1zM47 45h1v1h-1zM49 45h3v1h-3zM54 45h1v1h-1zM57 45h1v1h-1zM5 46h2v1h-2zM8 46h1v1h-1zM11 46h4v1h-4zM17 46h3v1h-3zM21 46h2v1h-2zM24 46h3v1h-3zM29 46h1v1h-1zM31 46h3v1h-3zM36 46h1v1h-1zM38 46h5v1h-5zM44 46h1v1h-1zM49 46h2v1h-2zM54 46h5v1h-5zM2 47h3v1h-3zM6 47h2v1h-2zM9 47h4v1h-4zM14 47h1v1h-1zM16 47h1v1h-1zM18 47h1v1h-1zM22 47h2v1h-2zM27 47h3v1h-3zM31 47h4v1h-4zM37 47h3v1h-3zM47 47h1v1h-1zM50 47h3v1h-3zM55 47h3v1h-3zM2 48h1v1h-1zM4 48h1v1h-1zM7 48h2v1h-2zM10 48h3v1h-3zM14 48h3v1h-3zM18 48h2v1h-2zM23 48h1v1h-1zM26 48h2v1h-2zM29 48h1v1h-1zM31 48h3v1h-3zM36 48h1v1h-1zM39 48h1v1h-1zM41 48h1v1h-1zM44 48h1v1h-1zM48 48h1v1h-1zM52 48h3v1h-3zM58 48h1v1h-1zM2 49h5v1h-5zM9 49h3v1h-3zM13 49h1v1h-1zM15 49h5v1h-5zM22 49h1v1h-1zM24 49h2v1h-2zM29 49h2v1h-2zM37 49h2v1h-2zM40 49h2v1h-2zM45 49h1v1h-1zM49 49h3v1h-3zM55 49h1v1h-1zM57 49h1v1h-1zM8 50h4v1h-4zM15 50h2v1h-2zM20 50h1v1h-1zM22 50h1v1h-1zM24 50h2v1h-2zM28 50h7v1h-7zM36 50h1v1h-1zM38 50h2v1h-2zM41 50h3v1h-3zM46 50h1v1h-1zM48 50h1v1h-1zM50 50h5v1h-5zM56 50h1v1h-1zM10 51h1v1h-1zM13 51h1v1h-1zM15 51h1v1h-1zM28 51h1v1h-1zM32 51h7v1h-7zM45 51h6v1h-6zM54 51h1v1h-1zM56 51h3v1h-3zM2 52h7v1h-7zM15 52h2v1h-2zM22 52h2v1h-2zM27 52h2v1h-2zM30 52h1v1h-1zM32 52h4v1h-4zM39 52h2v1h-2zM42 52h1v1h-1zM45 52h2v1h-2zM48 52h3v1h-3zM52 52h1v1h-1zM54 52h2v1h-2zM2 53h1v1h-1zM8 53h1v1h-1zM10 53h2v1h-2zM13 53h5v1h-5zM22 53h1v1h-1zM25 53h1v1h-1zM27 53h2v1h-2zM32 53h1v1h-1zM34 53h4v1h-4zM41 53h1v1h-1zM44 53h2v1h-2zM47 53h1v1h-1zM50 53h1v1h-1zM54 53h1v1h-1zM58 53h1v1h-1zM2 54h1v1h-1zM4 54h3v1h-3zM8 54h1v1h-1zM11 54h1v1h-1zM13 54h2v1h-2zM16 54h6v1h-6zM25 54h10v1h-10zM36 54h1v1h-1zM38 54h2v1h-2zM43 54h2v1h-2zM46 54h1v1h-1zM50 54h5v1h-5zM57 54h1v1h-1zM2 55h1v1h-1zM4 55h3v1h-3zM8 55h1v1h-1zM10 55h4v1h-4zM16 55h3v1h-3zM21 55h2v1h-2zM24 55h1v1h-1zM29 55h1v1h-1zM38 55h1v1h-1zM40 55h1v1h-1zM42 55h2v1h-2zM49 55h1v1h-1zM53 55h1v1h-1zM57 55h2v1h-2zM2 56h1v1h-1zM4 56h3v1h-3zM8 56h1v1h-1zM11 56h1v1h-1zM13 56h1v1h-1zM15 56h2v1h-2zM21 56h3v1h-3zM25 56h2v1h-2zM30 56h3v1h-3zM35 56h3v1h-3zM40 56h1v1h-1zM42 56h2v1h-2zM45 56h12v1h-12zM58 56h1v1h-1zM2 57h1v1h-1zM8 57h1v1h-1zM13 57h1v1h-1zM16 57h1v1h-1zM18 57h1v1h-1zM23 57h3v1h-3zM27 57h1v1h-1zM29 57h1v1h-1zM34 57h2v1h-2zM38 57h2v1h-2zM41 57h3v1h-3zM45 57h1v1h-1zM47 57h1v1h-1zM49 57h1v1h-1zM53 57h1v1h-1zM2 58h7v1h-7zM10 58h8v1h-8zM22 58h3v1h-3zM27 58h1v1h-1zM29 58h1v1h-1zM33 58h1v1h-1zM35 58h2v1h-2zM38 58h2v1h-2zM41 58h2v1h-2zM45 58h1v1h-1zM47 58h1v1h-1zM50 58h1v1h-1zM54 58h4v1h-4z" fill="#0B1020"/></svg></div>
+    <h3 id="sheet-title">Save Justin Sebastian</h3>
+    <div class="qr-frame"><svg class="" viewBox="0 0 61 61" xmlns="http://www.w3.org/2000/svg" shape-rendering="crispEdges" role="img" aria-label="QR code"><rect width="61" height="61" fill="#ffffff"/><path d="M2 2h7v1h-7zM10 2h1v1h-1zM12 2h5v1h-5zM18 2h1v1h-1zM21 2h2v1h-2zM25 2h2v1h-2zM28 2h1v1h-1zM30 2h1v1h-1zM32 2h2v1h-2zM36 2h3v1h-3zM40 2h1v1h-1zM42 2h1v1h-1zM44 2h1v1h-1zM46 2h4v1h-4zM52 2h7v1h-7zM2 3h1v1h-1zM8 3h1v1h-1zM16 3h1v1h-1zM21 3h3v1h-3zM25 3h1v1h-1zM27 3h4v1h-4zM32 3h1v1h-1zM40 3h1v1h-1zM42 3h1v1h-1zM44 3h1v1h-1zM46 3h1v1h-1zM49 3h1v1h-1zM52 3h1v1h-1zM58 3h1v1h-1zM2 4h1v1h-1zM4 4h3v1h-3zM8 4h1v1h-1zM10 4h1v1h-1zM12 4h1v1h-1zM14 4h2v1h-2zM17 4h1v1h-1zM19 4h2v1h-2zM22 4h4v1h-4zM27 4h1v1h-1zM29 4h1v1h-1zM31 4h1v1h-1zM34 4h2v1h-2zM37 4h2v1h-2zM41 4h2v1h-2zM44 4h6v1h-6zM52 4h1v1h-1zM54 4h3v1h-3zM58 4h1v1h-1zM2 5h1v1h-1zM4 5h3v1h-3zM8 5h1v1h-1zM11 5h1v1h-1zM14 5h4v1h-4zM20 5h2v1h-2zM26 5h2v1h-2zM29 5h1v1h-1zM32 5h2v1h-2zM35 5h2v1h-2zM40 5h2v1h-2zM45 5h1v1h-1zM47 5h1v1h-1zM49 5h1v1h-1zM52 5h1v1h-1zM54 5h3v1h-3zM58 5h1v1h-1zM2 6h1v1h-1zM4 6h3v1h-3zM8 6h1v1h-1zM12 6h1v1h-1zM15 6h1v1h-1zM17 6h3v1h-3zM21 6h3v1h-3zM26 6h8v1h-8zM35 6h3v1h-3zM39 6h4v1h-4zM44 6h2v1h-2zM49 6h1v1h-1zM52 6h1v1h-1zM54 6h3v1h-3zM58 6h1v1h-1zM2 7h1v1h-1zM8 7h1v1h-1zM10 7h1v1h-1zM12 7h6v1h-6zM19 7h1v1h-1zM21 7h1v1h-1zM23 7h3v1h-3zM27 7h2v1h-2zM32 7h1v1h-1zM34 7h7v1h-7zM44 7h2v1h-2zM47 7h2v1h-2zM52 7h1v1h-1zM58 7h1v1h-1zM2 8h7v1h-7zM10 8h1v1h-1zM12 8h1v1h-1zM14 8h1v1h-1zM16 8h1v1h-1zM18 8h1v1h-1zM20 8h1v1h-1zM22 8h1v1h-1zM24 8h1v1h-1zM26 8h1v1h-1zM28 8h1v1h-1zM30 8h1v1h-1zM32 8h1v1h-1zM34 8h1v1h-1zM36 8h1v1h-1zM38 8h1v1h-1zM40 8h1v1h-1zM42 8h1v1h-1zM44 8h1v1h-1zM46 8h1v1h-1zM48 8h1v1h-1zM50 8h1v1h-1zM52 8h7v1h-7zM11 9h1v1h-1zM13 9h2v1h-2zM18 9h1v1h-1zM20 9h3v1h-3zM24 9h1v1h-1zM26 9h1v1h-1zM28 9h1v1h-1zM32 9h1v1h-1zM34 9h3v1h-3zM44 9h1v1h-1zM46 9h1v1h-1zM49 9h1v1h-1zM2 10h1v1h-1zM4 10h1v1h-1zM8 10h2v1h-2zM11 10h1v1h-1zM13 10h1v1h-1zM16 10h3v1h-3zM20 10h1v1h-1zM22 10h1v1h-1zM27 10h6v1h-6zM34 10h1v1h-1zM36 10h3v1h-3zM40 10h1v1h-1zM42 10h1v1h-1zM44 10h3v1h-3zM48 10h3v1h-3zM53 10h1v1h-1zM56 10h1v1h-1zM58 10h1v1h-1zM3 11h1v1h-1zM6 11h2v1h-2zM9 11h3v1h-3zM14 11h1v1h-1zM19 11h1v1h-1zM22 11h1v1h-1zM25 11h1v1h-1zM27 11h1v1h-1zM29 11h1v1h-1zM31 11h1v1h-1zM37 11h1v1h-1zM39 11h1v1h-1zM43 11h1v1h-1zM45 11h3v1h-3zM56 11h1v1h-1zM58 11h1v1h-1zM2 12h1v1h-1zM4 12h2v1h-2zM8 12h7v1h-7zM18 12h4v1h-4zM23 12h2v1h-2zM26 12h4v1h-4zM31 12h1v1h-1zM34 12h3v1h-3zM42 12h3v1h-3zM48 12h1v1h-1zM53 12h1v1h-1zM55 12h1v1h-1zM58 12h1v1h-1zM3 13h2v1h-2zM6 13h2v1h-2zM12 13h2v1h-2zM15 13h1v1h-1zM17 13h2v1h-2zM20 13h4v1h-4zM25 13h1v1h-1zM27 13h1v1h-1zM31 13h2v1h-2zM36 13h1v1h-1zM39 13h1v1h-1zM42 13h3v1h-3zM48 13h1v1h-1zM55 13h1v1h-1zM57 13h1v1h-1zM4 14h2v1h-2zM8 14h3v1h-3zM12 14h2v1h-2zM17 14h1v1h-1zM19 14h3v1h-3zM23 14h2v1h-2zM26 14h1v1h-1zM30 14h3v1h-3zM34 14h2v1h-2zM37 14h2v1h-2zM40 14h1v1h-1zM42 14h1v1h-1zM46 14h2v1h-2zM49 14h1v1h-1zM51 14h1v1h-1zM54 14h1v1h-1zM56 14h2v1h-2zM4 15h2v1h-2zM11 15h5v1h-5zM18 15h3v1h-3zM22 15h2v1h-2zM27 15h1v1h-1zM30 15h1v1h-1zM35 15h1v1h-1zM38 15h2v1h-2zM42 15h2v1h-2zM45 15h1v1h-1zM47 15h1v1h-1zM51 15h1v1h-1zM55 15h1v1h-1zM2 16h1v1h-1zM4 16h1v1h-1zM6 16h1v1h-1zM8 16h2v1h-2zM13 16h1v1h-1zM16 16h1v1h-1zM18 16h3v1h-3zM26 16h6v1h-6zM35 16h2v1h-2zM39 16h5v1h-5zM45 16h4v1h-4zM51 16h2v1h-2zM55 16h2v1h-2zM58 16h1v1h-1zM2 17h2v1h-2zM6 17h2v1h-2zM9 17h2v1h-2zM12 17h1v1h-1zM14 17h1v1h-1zM17 17h1v1h-1zM20 17h1v1h-1zM22 17h2v1h-2zM29 17h2v1h-2zM32 17h5v1h-5zM39 17h1v1h-1zM43 17h1v1h-1zM46 17h7v1h-7zM57 17h1v1h-1zM2 18h2v1h-2zM5 18h5v1h-5zM12 18h3v1h-3zM16 18h5v1h-5zM23 18h2v1h-2zM27 18h2v1h-2zM30 18h1v1h-1zM32 18h3v1h-3zM36 18h1v1h-1zM38 18h1v1h-1zM40 18h1v1h-1zM42 18h1v1h-1zM44 18h1v1h-1zM46 18h1v1h-1zM48 18h1v1h-1zM51 18h1v1h-1zM53 18h2v1h-2zM57 18h2v1h-2zM4 19h1v1h-1zM7 19h1v1h-1zM11 19h6v1h-6zM20 19h1v1h-1zM22 19h1v1h-1zM24 19h2v1h-2zM29 19h1v1h-1zM31 19h1v1h-1zM33 19h2v1h-2zM38 19h1v1h-1zM41 19h3v1h-3zM46 19h2v1h-2zM53 19h4v1h-4zM58 19h1v1h-1zM2 20h2v1h-2zM7 20h3v1h-3zM19 20h1v1h-1zM21 20h4v1h-4zM26 20h1v1h-1zM28 20h2v1h-2zM31 20h1v1h-1zM34 20h5v1h-5zM44 20h1v1h-1zM47 20h3v1h-3zM53 20h1v1h-1zM55 20h1v1h-1zM58 20h1v1h-1zM7 21h1v1h-1zM10 21h2v1h-2zM13 21h4v1h-4zM18 21h1v1h-1zM22 21h1v1h-1zM26 21h2v1h-2zM31 21h1v1h-1zM34 21h2v1h-2zM37 21h1v1h-1zM40 21h5v1h-5zM46 21h7v1h-7zM57 21h1v1h-1zM2 22h1v1h-1zM4 22h7v1h-7zM12 22h2v1h-2zM17 22h1v1h-1zM24 22h1v1h-1zM27 22h1v1h-1zM30 22h2v1h-2zM34 22h1v1h-1zM36 22h1v1h-1zM38 22h1v1h-1zM40 22h1v1h-1zM42 22h2v1h-2zM46 22h1v1h-1zM48 22h3v1h-3zM52 22h1v1h-1zM54 22h4v1h-4zM3 23h3v1h-3zM7 23h1v1h-1zM9 23h6v1h-6zM16 23h3v1h-3zM21 23h3v1h-3zM28 23h4v1h-4zM33 23h1v1h-1zM37 23h1v1h-1zM39 23h1v1h-1zM41 23h1v1h-1zM49 23h1v1h-1zM53 23h1v1h-1zM57 23h2v1h-2zM2 24h1v1h-1zM4 24h2v1h-2zM7 24h2v1h-2zM10 24h1v1h-1zM12 24h6v1h-6zM20 24h1v1h-1zM22 24h1v1h-1zM28 24h1v1h-1zM31 24h2v1h-2zM34 24h1v1h-1zM37 24h1v1h-1zM43 24h1v1h-1zM46 24h3v1h-3zM51 24h3v1h-3zM55 24h1v1h-1zM57 24h2v1h-2zM5 25h1v1h-1zM7 25h1v1h-1zM10 25h2v1h-2zM14 25h1v1h-1zM16 25h1v1h-1zM20 25h1v1h-1zM22 25h2v1h-2zM26 25h2v1h-2zM30 25h1v1h-1zM33 25h2v1h-2zM36 25h1v1h-1zM38 25h1v1h-1zM40 25h2v1h-2zM43 25h1v1h-1zM45 25h1v1h-1zM47 25h1v1h-1zM51 25h1v1h-1zM53 25h1v1h-1zM55 25h1v1h-1zM57 25h1v1h-1zM4 26h5v1h-5zM12 26h5v1h-5zM20 26h2v1h-2zM24 26h2v1h-2zM27 26h1v1h-1zM30 26h1v1h-1zM32 26h4v1h-4zM38 26h2v1h-2zM42 26h1v1h-1zM44 26h1v1h-1zM46 26h3v1h-3zM52 26h1v1h-1zM54 26h4v1h-4zM4 27h1v1h-1zM7 27h1v1h-1zM9 27h1v1h-1zM13 27h1v1h-1zM15 27h4v1h-4zM21 27h1v1h-1zM23 27h3v1h-3zM29 27h3v1h-3zM35 27h1v1h-1zM37 27h1v1h-1zM41 27h1v1h-1zM43 27h1v1h-1zM46 27h2v1h-2zM49 27h1v1h-1zM53 27h1v1h-1zM55 27h2v1h-2zM3 28h2v1h-2zM6 28h7v1h-7zM15 28h2v1h-2zM20 28h1v1h-1zM22 28h4v1h-4zM28 28h5v1h-5zM34 28h2v1h-2zM37 28h2v1h-2zM41 28h1v1h-1zM45 28h1v1h-1zM49 28h7v1h-7zM57 28h2v1h-2zM2 29h2v1h-2zM5 29h2v1h-2zM10 29h3v1h-3zM16 29h1v1h-1zM19 29h4v1h-4zM25 29h4v1h-4zM32 29h3v1h-3zM36 29h1v1h-1zM41 29h1v1h-1zM43 29h2v1h-2zM46 29h1v1h-1zM50 29h1v1h-1zM54 29h1v1h-1zM57 29h1v1h-1zM3 30h1v1h-1zM5 30h2v1h-2zM8 30h1v1h-1zM10 30h4v1h-4zM15 30h2v1h-2zM19 30h1v1h-1zM21 30h1v1h-1zM23 30h1v1h-1zM27 30h2v1h-2zM30 30h1v1h-1zM32 30h1v1h-1zM34 30h2v1h-2zM37 30h2v1h-2zM42 30h6v1h-6zM49 30h2v1h-2zM52 30h1v1h-1zM54 30h1v1h-1zM3 31h2v1h-2zM6 31h1v1h-1zM10 31h3v1h-3zM14 31h5v1h-5zM20 31h1v1h-1zM22 31h1v1h-1zM25 31h1v1h-1zM27 31h2v1h-2zM32 31h4v1h-4zM39 31h1v1h-1zM42 31h1v1h-1zM46 31h2v1h-2zM49 31h2v1h-2zM54 31h2v1h-2zM58 31h1v1h-1zM3 32h1v1h-1zM6 32h6v1h-6zM13 32h2v1h-2zM16 32h1v1h-1zM21 32h2v1h-2zM24 32h2v1h-2zM27 32h12v1h-12zM41 32h1v1h-1zM45 32h1v1h-1zM47 32h2v1h-2zM50 32h7v1h-7zM58 32h1v1h-1zM2 33h2v1h-2zM5 33h3v1h-3zM9 33h1v1h-1zM11 33h3v1h-3zM15 33h2v1h-2zM19 33h2v1h-2zM22 33h2v1h-2zM26 33h1v1h-1zM31 33h2v1h-2zM35 33h2v1h-2zM38 33h3v1h-3zM42 33h1v1h-1zM44 33h1v1h-1zM48 33h2v1h-2zM51 33h3v1h-3zM55 33h1v1h-1zM5 34h2v1h-2zM8 34h3v1h-3zM13 34h2v1h-2zM17 34h2v1h-2zM20 34h7v1h-7zM28 34h2v1h-2zM31 34h1v1h-1zM34 34h2v1h-2zM38 34h3v1h-3zM42 34h1v1h-1zM44 34h1v1h-1zM46 34h2v1h-2zM49 34h3v1h-3zM55 34h2v1h-2zM58 34h1v1h-1zM2 35h4v1h-4zM9 35h1v1h-1zM12 35h1v1h-1zM14 35h4v1h-4zM20 35h1v1h-1zM23 35h4v1h-4zM28 35h2v1h-2zM31 35h1v1h-1zM33 35h1v1h-1zM37 35h1v1h-1zM41 35h1v1h-1zM43 35h1v1h-1zM45 35h1v1h-1zM47 35h1v1h-1zM51 35h1v1h-1zM56 35h2v1h-2zM3 36h1v1h-1zM5 36h2v1h-2zM8 36h3v1h-3zM13 36h1v1h-1zM15 36h2v1h-2zM19 36h2v1h-2zM23 36h1v1h-1zM25 36h1v1h-1zM29 36h2v1h-2zM32 36h1v1h-1zM34 36h1v1h-1zM37 36h1v1h-1zM42 36h1v1h-1zM50 36h3v1h-3zM56 36h1v1h-1zM2 37h1v1h-1zM5 37h1v1h-1zM9 37h1v1h-1zM11 37h1v1h-1zM15 37h2v1h-2zM20 37h1v1h-1zM23 37h1v1h-1zM25 37h3v1h-3zM29 37h1v1h-1zM31 37h2v1h-2zM36 37h2v1h-2zM39 37h2v1h-2zM46 37h2v1h-2zM49 37h4v1h-4zM3 38h4v1h-4zM8 38h1v1h-1zM10 38h1v1h-1zM12 38h3v1h-3zM18 38h1v1h-1zM20 38h6v1h-6zM27 38h1v1h-1zM30 38h1v1h-1zM34 38h2v1h-2zM38 38h1v1h-1zM40 38h1v1h-1zM42 38h2v1h-2zM46 38h2v1h-2zM49 38h1v1h-1zM53 38h2v1h-2zM57 38h2v1h-2zM3 39h2v1h-2zM10 39h2v1h-2zM16 39h2v1h-2zM19 39h2v1h-2zM24 39h2v1h-2zM28 39h2v1h-2zM34 39h2v1h-2zM37 39h3v1h-3zM41 39h1v1h-1zM43 39h1v1h-1zM45 39h1v1h-1zM47 39h1v1h-1zM49 39h1v1h-1zM53 39h1v1h-1zM55 39h2v1h-2zM58 39h1v1h-1zM2 40h2v1h-2zM6 40h5v1h-5zM13 40h1v1h-1zM15 40h1v1h-1zM17 40h1v1h-1zM20 40h1v1h-1zM23 40h1v1h-1zM26 40h3v1h-3zM30 40h1v1h-1zM32 40h5v1h-5zM40 40h2v1h-2zM44 40h1v1h-1zM46 40h2v1h-2zM49 40h6v1h-6zM56 40h1v1h-1zM58 40h1v1h-1zM2 41h1v1h-1zM4 41h1v1h-1zM6 41h1v1h-1zM11 41h1v1h-1zM13 41h1v1h-1zM15 41h3v1h-3zM20 41h1v1h-1zM22 41h2v1h-2zM26 41h2v1h-2zM31 41h1v1h-1zM34 41h4v1h-4zM39 41h1v1h-1zM42 41h1v1h-1zM45 41h2v1h-2zM48 41h1v1h-1zM50 41h4v1h-4zM58 41h1v1h-1zM2 42h8v1h-8zM13 42h1v1h-1zM15 42h4v1h-4zM21 42h1v1h-1zM23 42h1v1h-1zM25 42h1v1h-1zM29 42h1v1h-1zM34 42h1v1h-1zM36 42h1v1h-1zM38 42h3v1h-3zM42 42h3v1h-3zM46 42h2v1h-2zM49 42h3v1h-3zM55 42h2v1h-2zM5 43h1v1h-1zM7 43h1v1h-1zM9 43h1v1h-1zM11 43h4v1h-4zM16 43h3v1h-3zM20 43h3v1h-3zM24 43h1v1h-1zM29 43h1v1h-1zM32 43h4v1h-4zM41 43h3v1h-3zM45 43h3v1h-3zM49 43h2v1h-2zM52 43h1v1h-1zM55 43h1v1h-1zM57 43h2v1h-2zM3 44h1v1h-1zM6 44h3v1h-3zM11 44h2v1h-2zM14 44h5v1h-5zM20 44h1v1h-1zM22 44h2v1h-2zM25 44h1v1h-1zM28 44h3v1h-3zM32 44h5v1h-5zM38 44h2v1h-2zM41 44h2v1h-2zM44 44h7v1h-7zM52 44h1v1h-1zM56 44h3v1h-3zM3 45h1v1h-1zM7 45h1v1h-1zM9 45h5v1h-5zM16 45h5v1h-5zM23 45h2v1h-2zM26 45h3v1h-3zM36 45h1v1h-1zM38 45h1v1h-1zM41 45h1v1h-1zM50 45h2v1h-2zM54 45h2v1h-2zM57 45h1v1h-1zM2 46h5v1h-5zM8 46h1v1h-1zM10 46h2v1h-2zM13 46h1v1h-1zM15 46h1v1h-1zM17 46h2v1h-2zM20 46h1v1h-1zM22 46h1v1h-1zM25 46h1v1h-1zM27 46h6v1h-6zM34 46h2v1h-2zM38 46h1v1h-1zM42 46h2v1h-2zM45 46h7v1h-7zM53 46h6v1h-6zM2 47h1v1h-1zM4 47h1v1h-1zM7 47h1v1h-1zM9 47h1v1h-1zM11 47h1v1h-1zM13 47h2v1h-2zM16 47h1v1h-1zM20 47h3v1h-3zM24 47h1v1h-1zM28 47h2v1h-2zM31 47h2v1h-2zM34 47h2v1h-2zM37 47h1v1h-1zM45 47h1v1h-1zM47 47h1v1h-1zM49 47h2v1h-2zM52 47h2v1h-2zM56 47h1v1h-1zM2 48h1v1h-1zM4 48h1v1h-1zM7 48h5v1h-5zM14 48h1v1h-1zM16 48h1v1h-1zM19 48h5v1h-5zM25 48h2v1h-2zM29 48h1v1h-1zM32 48h1v1h-1zM37 48h1v1h-1zM39 48h1v1h-1zM42 48h3v1h-3zM49 48h2v1h-2zM52 48h1v1h-1zM57 48h2v1h-2zM2 49h5v1h-5zM9 49h1v1h-1zM11 49h2v1h-2zM15 49h1v1h-1zM17 49h2v1h-2zM20 49h1v1h-1zM22 49h1v1h-1zM24 49h2v1h-2zM28 49h2v1h-2zM33 49h3v1h-3zM37 49h3v1h-3zM44 49h4v1h-4zM49 49h2v1h-2zM53 49h1v1h-1zM58 49h1v1h-1zM8 50h1v1h-1zM10 50h1v1h-1zM12 50h1v1h-1zM14 50h2v1h-2zM17 50h1v1h-1zM20 50h1v1h-1zM22 50h1v1h-1zM25 50h2v1h-2zM28 50h5v1h-5zM34 50h1v1h-1zM36 50h7v1h-7zM45 50h10v1h-10zM10 51h5v1h-5zM16 51h4v1h-4zM23 51h1v1h-1zM25 51h1v1h-1zM28 51h1v1h-1zM32 51h2v1h-2zM35 51h1v1h-1zM38 51h2v1h-2zM41 51h1v1h-1zM43 51h1v1h-1zM45 51h2v1h-2zM50 51h1v1h-1zM54 51h1v1h-1zM56 51h3v1h-3zM2 52h7v1h-7zM10 52h3v1h-3zM18 52h1v1h-1zM21 52h1v1h-1zM28 52h1v1h-1zM30 52h1v1h-1zM32 52h1v1h-1zM34 52h3v1h-3zM39 52h1v1h-1zM44 52h5v1h-5zM50 52h1v1h-1zM52 52h1v1h-1zM54 52h1v1h-1zM56 52h1v1h-1zM58 52h1v1h-1zM2 53h1v1h-1zM8 53h1v1h-1zM12 53h1v1h-1zM14 53h1v1h-1zM16 53h1v1h-1zM19 53h1v1h-1zM22 53h1v1h-1zM24 53h1v1h-1zM26 53h1v1h-1zM28 53h1v1h-1zM32 53h1v1h-1zM36 53h1v1h-1zM38 53h1v1h-1zM40 53h1v1h-1zM42 53h2v1h-2zM47 53h1v1h-1zM50 53h1v1h-1zM54 53h2v1h-2zM57 53h2v1h-2zM2 54h1v1h-1zM4 54h3v1h-3zM8 54h1v1h-1zM11 54h1v1h-1zM14 54h1v1h-1zM17 54h1v1h-1zM19 54h3v1h-3zM23 54h1v1h-1zM25 54h8v1h-8zM34 54h2v1h-2zM38 54h1v1h-1zM42 54h3v1h-3zM46 54h1v1h-1zM48 54h1v1h-1zM50 54h5v1h-5zM56 54h3v1h-3zM2 55h1v1h-1zM4 55h3v1h-3zM8 55h1v1h-1zM12 55h6v1h-6zM19 55h2v1h-2zM23 55h1v1h-1zM27 55h4v1h-4zM33 55h3v1h-3zM38 55h2v1h-2zM41 55h3v1h-3zM45 55h1v1h-1zM47 55h1v1h-1zM49 55h2v1h-2zM52 55h2v1h-2zM55 55h1v1h-1zM2 56h1v1h-1zM4 56h3v1h-3zM8 56h1v1h-1zM10 56h3v1h-3zM16 56h1v1h-1zM19 56h2v1h-2zM22 56h4v1h-4zM30 56h1v1h-1zM33 56h2v1h-2zM36 56h1v1h-1zM40 56h3v1h-3zM46 56h1v1h-1zM49 56h3v1h-3zM54 56h1v1h-1zM57 56h2v1h-2zM2 57h1v1h-1zM8 57h1v1h-1zM12 57h2v1h-2zM15 57h2v1h-2zM18 57h2v1h-2zM22 57h1v1h-1zM24 57h1v1h-1zM26 57h2v1h-2zM31 57h1v1h-1zM33 57h1v1h-1zM35 57h2v1h-2zM39 57h1v1h-1zM45 57h7v1h-7zM54 57h1v1h-1zM2 58h7v1h-7zM10 58h1v1h-1zM13 58h3v1h-3zM18 58h2v1h-2zM21 58h2v1h-2zM24 58h1v1h-1zM28 58h1v1h-1zM30 58h1v1h-1zM34 58h1v1h-1zM38 58h1v1h-1zM42 58h1v1h-1zM46 58h1v1h-1zM49 58h5v1h-5zM58 58h1v1h-1z" fill="#0B1020"/></svg></div>
     <p id="sheet-note">Point another phone's camera at this code and it offers to add the contact.</p>
     <div class="vcard-lines">
-      <span><b>Besto Thomas</b> — Founder, itsmyit.in</span>
+      <span><b>Justin Sebastian</b> — Co-Founder, itsmyit.in</span>
       <span>+91 9497389383</span>
-      <span>customersupport@itsmyit.in</span>
+      <span>justin@itsmyit.in</span>
       <span>itsmyit.in</span>
     </div>
     <div class="sheet-btns">
@@ -708,7 +708,7 @@
     var copyBtn = document.getElementById('copy-contact');
     var lastFocus = null;
 
-    var vcard = "BEGIN:VCARD\r\nVERSION:3.0\r\nN:Thomas;Besto;;;\r\nFN:Besto Thomas\r\nORG:itsmyit.in\r\nTITLE:Founder\r\nTEL;TYPE=CELL,VOICE:+919497389383\r\nEMAIL;TYPE=WORK:customersupport@itsmyit.in\r\nURL:https://itsmyit.in\r\nEND:VCARD\r\n";
+    var vcard = "BEGIN:VCARD\r\nVERSION:3.0\r\nN:Sebastian;Justin;;;\r\nFN:Justin Sebastian\r\nORG:itsmyit.in\r\nTITLE:Co-Founder\r\nTEL;TYPE=CELL,VOICE:+919497389383\r\nEMAIL;TYPE=WORK:justin@itsmyit.in\r\nURL:https://itsmyit.in\r\nEND:VCARD\r\n";
 
     var dlBtn = document.getElementById('dl-vcard');
     var framed = true;
@@ -722,7 +722,7 @@
         var url = URL.createObjectURL(blob);
         var a = document.createElement('a');
         a.href = url;
-        a.download = 'besto-thomas.vcf';
+        a.download = 'justin-sebastian.vcf';
         document.body.appendChild(a);
         a.click();
         a.remove();
@@ -730,13 +730,7 @@
       });
     }
 
-    var details = [
-      'Besto Thomas',
-      'Founder, itsmyit.in',
-      '+91 9497389383',
-      'customersupport@itsmyit.in',
-      'https://itsmyit.in'
-    ].join('\n');
+    var details = "Justin Sebastian\nCo-Founder, itsmyit.in\n+91 9497389383\njustin@itsmyit.in\nhttps://itsmyit.in";
 
     function open() {
       lastFocus = document.activeElement;
